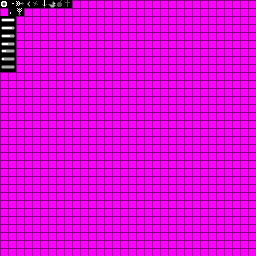
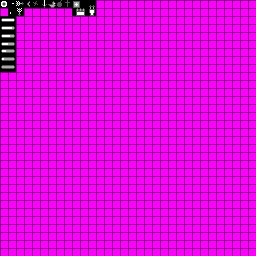
Updated Health Pack Texture
Please use the textures’ I’ve drawn for the objects you create, they’re
there for a reason

Changed region(s): [[0.2812, 0.0, 0.375, 0.0625]]

diff --git a/src/ca/javajesus/level/tile/Tile.java b/src/ca/javajesus/level/tile/Tile.java
@@ -33,12 +33,12 @@ public abstract class Tile {
             1000);
     public static final Tile WATER = new AnimatedTile(3, new int[][] {
             { 0, 14 }, { 1, 14 }, { 2, 14 }, { 3, 14 }, { 2, 14 }, { 1, 14 } },
-            Colours.get(-1, 004, 115, -1), 0xFF0000FF, 1000);
+            Colours.get(-1, 004, 115, -1), 0xFF0000FF, 800);
     public static final Tile FIRE = new AnimatedTile(5, new int[][] { { 0, 15 },
             { 1, 15 }, { 2, 15 }, { 3, 15 }, { 4, 15 }, { 3, 15 }, { 2, 15 },
             { 1, 15 } }, Colours.get(Colours.toHex("#F51F07"),
             Colours.toHex("#F7790A"), 540, -1),
-            0xFFFF0000, 500);
+            0xFFFF0000, 100);
     public static final Tile ROAD1 = new BaseTile(6, 0, 2, Colours.get(-1, 000,
             -1, -1), 0xFF565656);
     public static final Tile ROAD2 = new BaseTile(7, 1, 2, Colours.get(-1, 000,

diff --git a/src/ca/javajesus/game/entities/HealthPack.java b/src/ca/javajesus/game/entities/HealthPack.java
@@ -10,11 +10,11 @@ import ca.javajesus.level.Level;
 public class HealthPack extends Particle {
 	
 	private Random random = new Random();
-	private static int healthPackColour = Colours.get(-1, 300, -1, -1);
+	private static int healthPackColour = Colours.get(-1, 0x00FFfffffa, 555, 500);
 	private final Rectangle BOX = new Rectangle(10, 10);
 
 	public HealthPack(Level level, double x, double y) {
-		super(level, 8, healthPackColour, x, y);
+		super(level, 9, healthPackColour, x, y);
 
 		this.x += random.nextInt(400) - 200;
 		this.y += random.nextInt(400) - 200;
